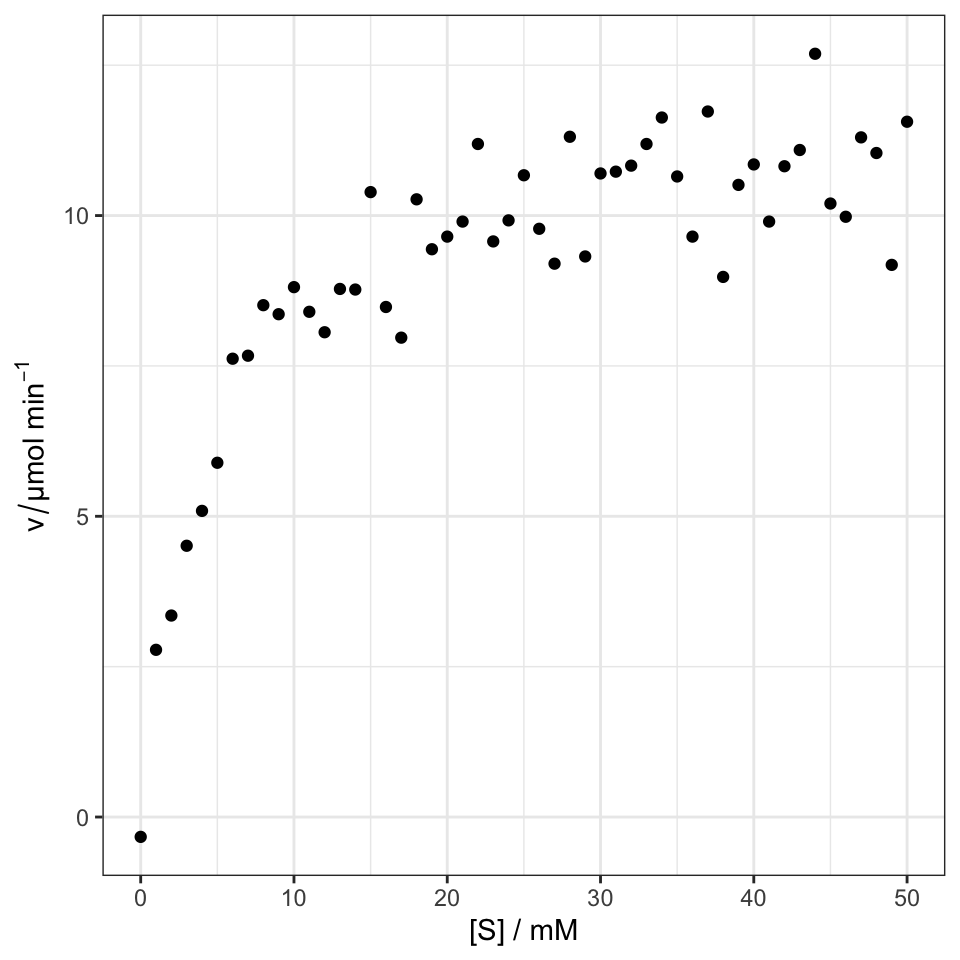
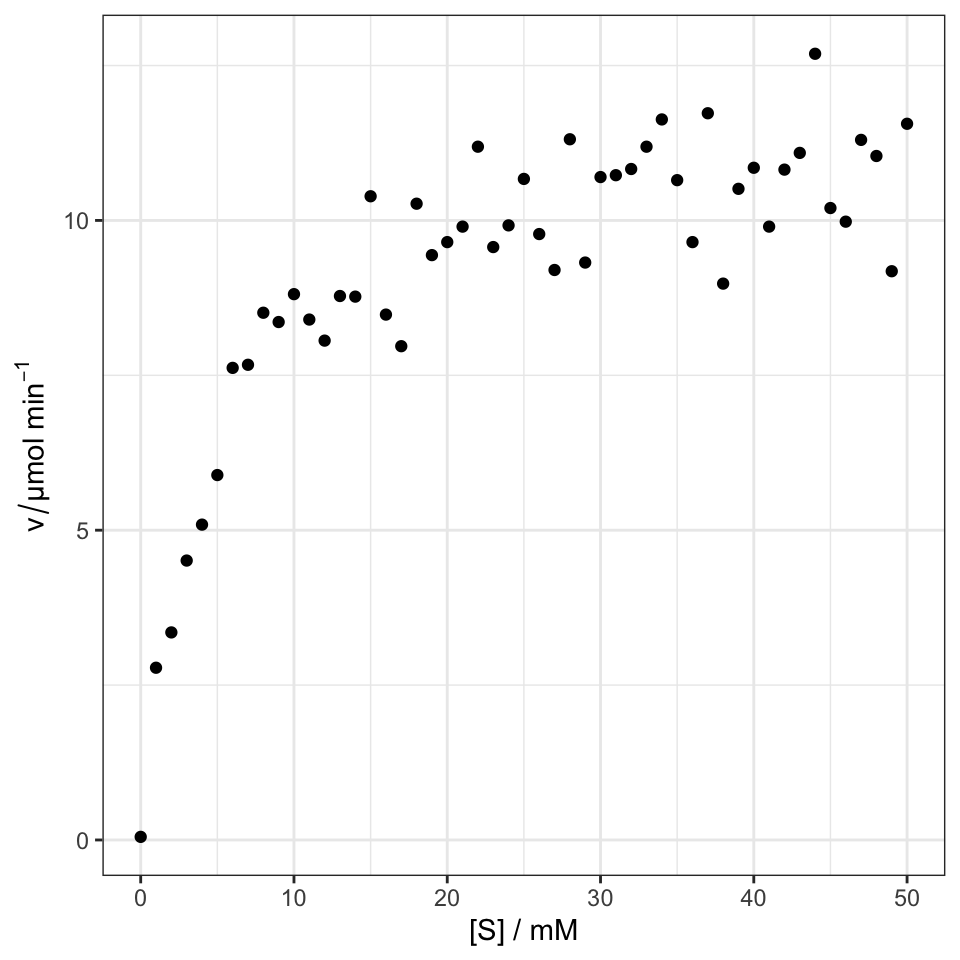
added text

diff --git a/docs/stat-modeling-non-linear.html b/docs/stat-modeling-non-linear.html
@@ -472,7 +472,7 @@ code span.wa { color: #60a0b0; font-weight: bold; font-style: italic; } /* Warni
 </header><div class="cell">
 
 </div>
-<p><em>Version vom October 18, 2022 um 21:54:35</em></p>
+<p><em>Version vom October 18, 2022 um 22:09:24</em></p>
 <div class="quarto-figure quarto-figure-center">
 <figure class="figure"><p><img src="images/caution.png" class="img-fluid figure-img" style="width:50.0%"></p>
 </figure>
@@ -689,14 +689,17 @@ Coefficients:
 </div>
 </section><section id="modellieren-von-michaelis-menten" class="level2" data-number="39.5"><h2 data-number="39.5" class="anchored" data-anchor-id="modellieren-von-michaelis-menten">
 <span class="header-section-number">39.5</span> Modellieren von Michaelis-Menten</h2>
+<p>Die Daten in <code>enzyme.csv</code> geben die Geschwindigkeit <span class="math inline">\(v\)</span> des Enzyms saure Phosphatase (<span class="math inline">\(\mu mol/min\)</span>) bei verschiedenen Konzentrationen des Substrats Nitrophenolphosphat, [S] (mM), an. Die Daten können mit der Michaelis-Menten-Gleichung modelliert werden und somit kann eine nichtlineare Regression kann verwendet werden, um <span class="math inline">\(K_M\)</span> und <span class="math inline">\(v_{max}\)</span> zu schätzen.</p>
 <div class="cell">
-
+<div class="sourceCode" id="cb13"><pre class="downlit sourceCode r code-with-copy"><code class="sourceCode R"><span><span class="va">enzyme_tbl</span> <span class="op">&lt;-</span> <span class="fu">read_csv2</span><span class="op">(</span><span class="fu"><a href="https://rdrr.io/r/base/file.path.html">file.path</a></span><span class="op">(</span><span class="st">"data/enzyme.csv"</span><span class="op">)</span><span class="op">)</span> <span class="op">%&gt;%</span> </span>
+<span>  <span class="fu">rename</span><span class="op">(</span>S <span class="op">=</span> <span class="va">concentration</span>, v <span class="op">=</span> <span class="va">rate</span><span class="op">)</span></span></code><button title="In die Zwischenablage kopieren" class="code-copy-button"><i class="bi"></i></button></pre></div>
 </div>
+<p>In <a href="#tbl-enzyme">Tabelle&nbsp;<span>39.2</span></a> sehen wir einen Auszug aus den Enzymedaten.</p>
 <div class="cell">
 <div class="cell-output-display">
 <div id="tbl-enzyme" class="anchored">
 <table class="table table-sm table-striped">
-<caption>Tabelle 39.2— Auszug aus Hühnchendatensatz.</caption>
+<caption>Tabelle 39.2— Auszug aus Enzymedatensatz.</caption>
 <thead><tr class="header">
 <th style="text-align: center;">S</th>
 <th style="text-align: center;">v</th>
@@ -704,7 +707,7 @@ Coefficients:
 <tbody>
 <tr class="odd">
 <td style="text-align: center;">0</td>
-<td style="text-align: center;">-0.33</td>
+<td style="text-align: center;">0.05</td>
 </tr>
 <tr class="even">
 <td style="text-align: center;">1</td>
@@ -735,32 +738,35 @@ Coefficients:
 </div>
 </div>
 </div>
+<p>Schauen wir uns die Daten einmal in der <a href="#fig-nls-04">Abbildung&nbsp;<span>39.5</span></a> an.</p>
 <div class="cell" data-layout-align="center">
 <div class="cell-output-display">
 <div id="fig-nls-04" class="quarto-figure quarto-figure-center anchored">
 <figure class="figure"><p><img src="stat-modeling-non-linear_files/figure-html/fig-nls-04-1.png" class="img-fluid figure-img" width="480"></p>
-<p></p><figcaption aria-hidden="true" class="figure-caption">Abbildung 39.5— Visualisierung der Sterberate von Blattläusen nach Aufbringen eines Bio-Pestizides mit der nicht-linearen Regressionsgleichung.</figcaption><p></p>
+<p></p><figcaption aria-hidden="true" class="figure-caption">Abbildung 39.5— Visualisierung der Geschwindigkeit <span class="math inline">\(v\)</span> des Enzyms saure Phosphatase bei verschiedenen Konzentrationen des Substrats Nitrophenolphosphat.</figcaption><p></p>
 </figure>
 </div>
 </div>
 </div>
+<p>Die aus der Reaktionsgleichung abgeleitete Michaelis-Menten-Kinetik lässt sich allgemein wie folgt darstellen.</p>
 <p><span class="math display">\[
 v = \cfrac{v_{max} \cdot S}{K_M + S}
 \]</span></p>
+<p>Dabei gibt <span class="math inline">\(v\)</span> die initiale Reaktionsgeschwindigkeit bei einer bestimmten Substratkonzentration [S] an. Mit <span class="math inline">\(v_{max}\)</span> beschreiben wir die maximale Reaktionsgeschwindigkeit. Eine Kenngröße für eine enzymatische Reaktion ist die Michaeliskonstante <span class="math inline">\(K_M\)</span>. Sie hängt von der jeweiligen enzymatischen Reaktion ab. Km gibt die Substratkonzentration an, bei der die Umsatzgeschwindigkeit halbmaximal ist und somit <span class="math inline">\(v = 1/2 \cdot v_{max}\)</span> ist. Wir haben dann die Halbsättigung vorliegen.</p>
 <div class="cell">
-<div class="sourceCode" id="cb13"><pre class="downlit sourceCode r code-with-copy"><code class="sourceCode R"><span><span class="va">enzyme_fit</span> <span class="op">&lt;-</span> <span class="fu"><a href="https://rdrr.io/r/stats/nls.html">nls</a></span><span class="op">(</span><span class="va">v</span> <span class="op">~</span> <span class="va">vmax</span> <span class="op">*</span> <span class="va">S</span> <span class="op">/</span><span class="op">(</span> <span class="va">KM</span> <span class="op">+</span> <span class="va">S</span> <span class="op">)</span>, data  <span class="op">=</span> <span class="va">enzyme_tbl</span>,</span>
+<div class="sourceCode" id="cb14"><pre class="downlit sourceCode r code-with-copy"><code class="sourceCode R"><span><span class="va">enzyme_fit</span> <span class="op">&lt;-</span> <span class="fu"><a href="https://rdrr.io/r/stats/nls.html">nls</a></span><span class="op">(</span><span class="va">v</span> <span class="op">~</span> <span class="va">vmax</span> <span class="op">*</span> <span class="va">S</span> <span class="op">/</span><span class="op">(</span> <span class="va">KM</span> <span class="op">+</span> <span class="va">S</span> <span class="op">)</span>, data  <span class="op">=</span> <span class="va">enzyme_tbl</span>,</span>
 <span>                  start <span class="op">=</span> <span class="fu"><a href="https://rdrr.io/r/base/c.html">c</a></span><span class="op">(</span>vmax <span class="op">=</span> <span class="fl">9</span>, KM <span class="op">=</span> <span class="fl">2</span><span class="op">)</span><span class="op">)</span></span></code><button title="In die Zwischenablage kopieren" class="code-copy-button"><i class="bi"></i></button></pre></div>
 </div>
 <div class="cell">
-<div class="sourceCode" id="cb14"><pre class="downlit sourceCode r code-with-copy"><code class="sourceCode R"><span><span class="va">enzyme_fit</span> <span class="op">%&gt;%</span> </span>
+<div class="sourceCode" id="cb15"><pre class="downlit sourceCode r code-with-copy"><code class="sourceCode R"><span><span class="va">enzyme_fit</span> <span class="op">%&gt;%</span> </span>
 <span>  <span class="fu">model_parameters</span><span class="op">(</span><span class="op">)</span></span></code><button title="In die Zwischenablage kopieren" class="code-copy-button"><i class="bi"></i></button></pre></div>
 <div class="cell-output cell-output-stdout">
 <pre><code># Fixed Effects
 
 Parameter | Coefficient |   SE |         95% CI | t(49) |      p
 ----------------------------------------------------------------
-vmax      |       11.85 | 0.26 | [11.32, 12.38] | 45.24 | &lt; .001
-KM        |        4.28 | 0.51 | [ 3.25,  5.31] |  8.37 | &lt; .001</code></pre>
+vmax      |       11.85 | 0.26 | [11.32, 12.38] | 45.32 | &lt; .001
+KM        |        4.28 | 0.51 | [ 3.26,  5.31] |  8.39 | &lt; .001</code></pre>
 </div>
 </div>
 <p><span class="math display">\[
